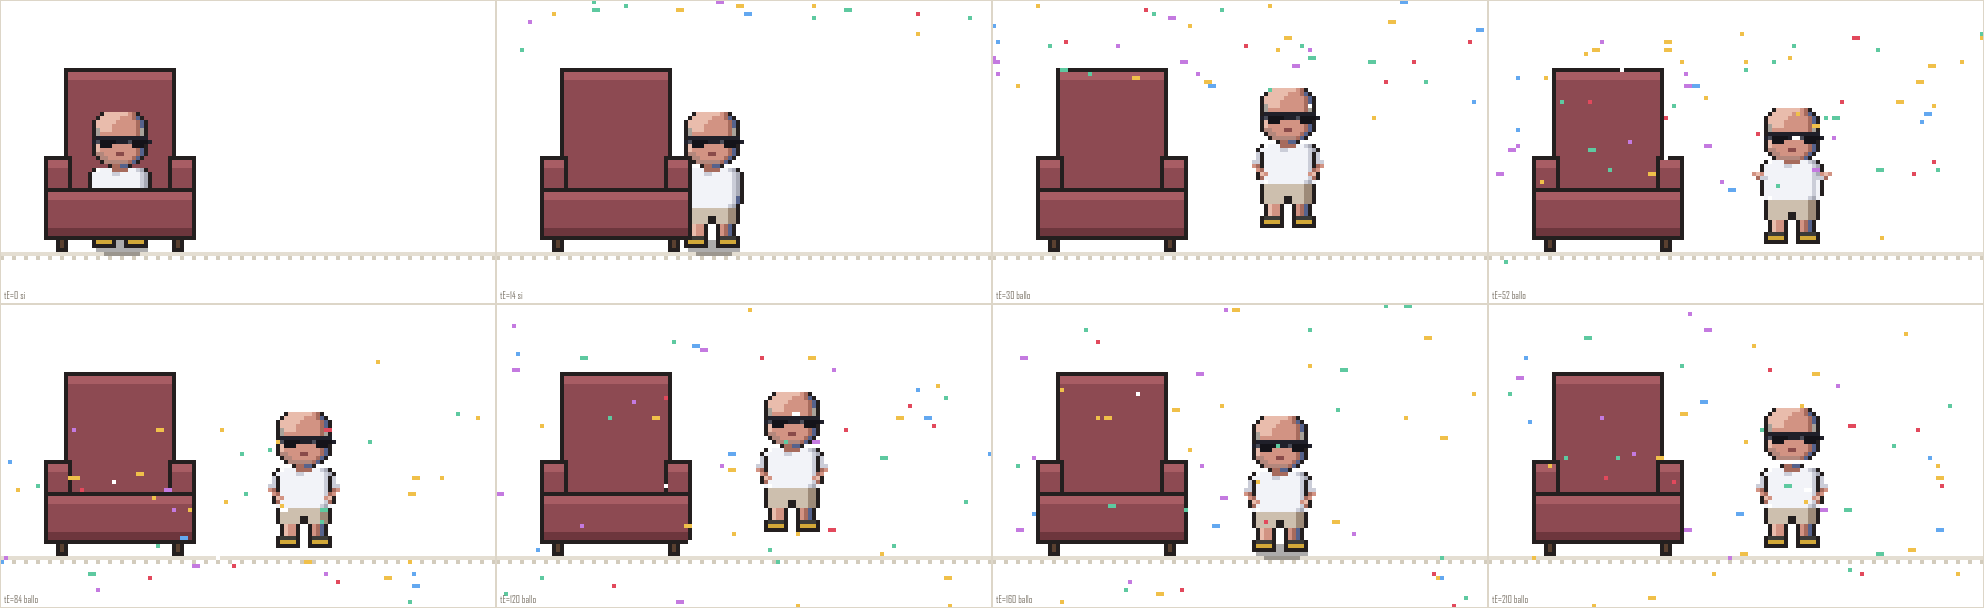
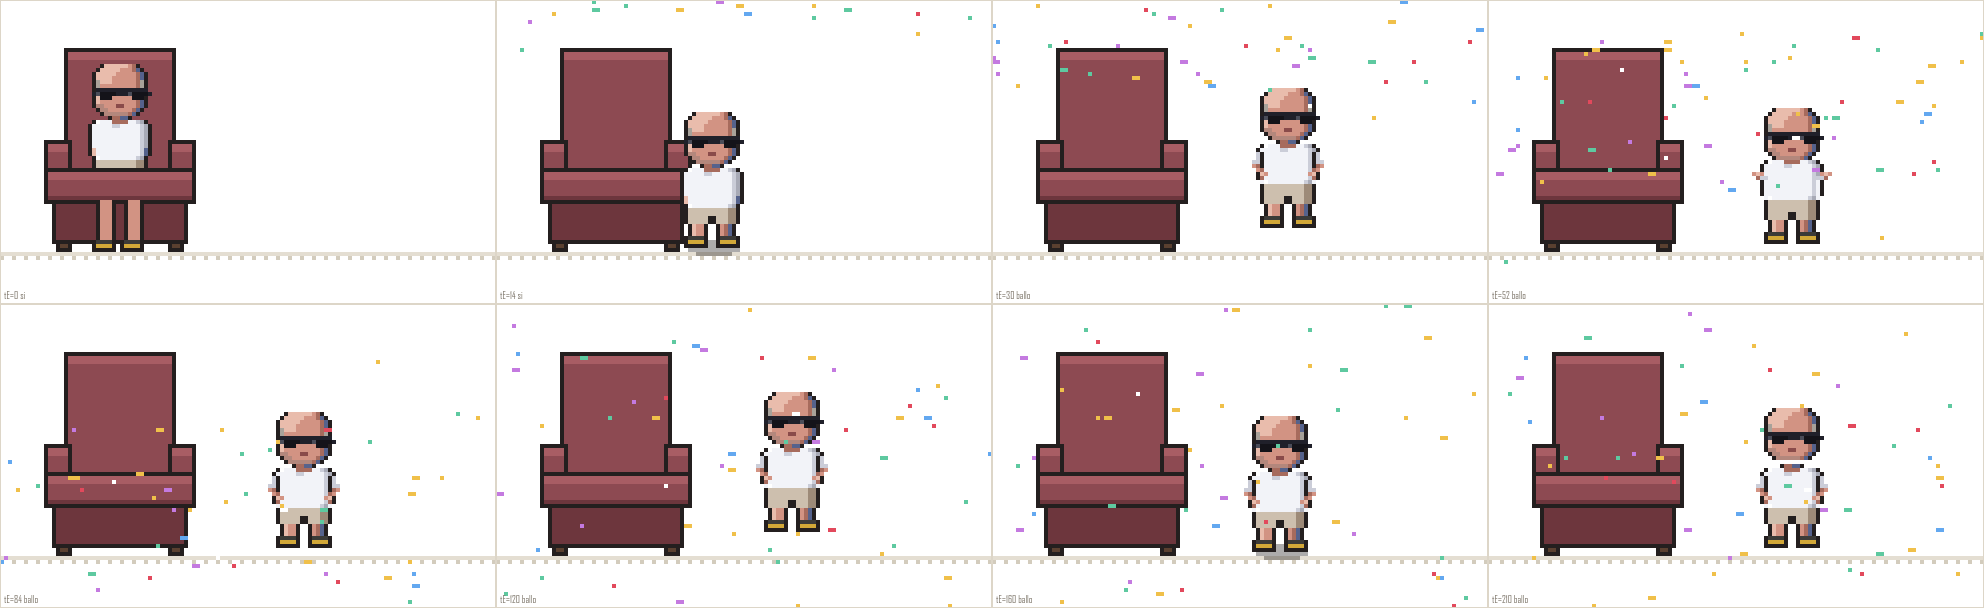
Poltrona: seduto spariva mezzo corpo
Il difetto non era dove sembrava. La conta dice che il mobile copriva solo
il venti per cento della figura, e sempre e solo gambe e scarpe: testa,
maglietta e braccia erano intatti. Geometricamente giusto, eppure sbagliato
a vedersi.

Il motivo e' che di fronte una persona seduta si riconosce dalle ginocchia.
Tagliata alla pancia e basta, non sembra seduta: sembra sprofondata nel
mobile, o mezza. Mancavano le gambe, non ce n'erano di troppo.

Il cuscino era spesso dodici pixel e il piano stava a tre dal pavimento:
sotto non restava spazio per farle scendere. Ora il piano e' piu' alto e il
cuscino piu' sottile, e sotto ci sono dodici pixel liberi. Gli stinchi
scendono fino a terra alle stesse colonne che le gambe hanno nello sprite
in piedi, o non sembrano le sue.

Le quattro gambe di legno alte dodici pixel facevano sembrare la poltrona
su trampoli: a un mobile imbottito serve peso in basso. Ora ha una base
piena, e le gambe di chi ci siede passano DAVANTI a quella base, come
succede davvero.

Terzo caso, lo stesso errore al contrario: camminando via passava dietro
alla poltrona e il mobile gli tagliava mezzo corpo, lasciando un busto che
scivola. Chi sta in piedi va disegnato davanti al mobile; solo chi ci siede
ci sta dentro. Ora l'ordine dipende da dove si trova.

E nel ramo del si' si alzava gia' in piedi al primo fotogramma, con mezzo
corpo dietro il cuscino: adesso prima si tira su, poi si sposta.
[…]

diff --git a/finale.js b/finale.js
@@ -129,7 +129,20 @@ function statoCaduta(t){
    Vista di fronte. Si disegna in due passate: 'dietro' lo schienale,
    'davanti' seduta e braccioli. Il personaggio va in mezzo alle due.
    -------------------------------------------------------------------------- */
-const POLT = { larg: 38, schienale: 30, seduta: 12 };
+/* Le misure della poltrona, tutte riferite al piano su cui ci si siede.
+   La prima versione aveva il cuscino spesso 12 e il piano a tre pixel dal
+   pavimento: fra il cuscino e terra non restava spazio per le gambe, e
+   seduto veniva tagliato alla pancia. Di fronte, una persona seduta si
+   riconosce dalle ginocchia: senza, sembra sprofondata nel mobile.
+   Ora il piano e' piu' alto e il cuscino piu' sottile, e sotto ci sono
+   dodici pixel liberi in cui far scendere gli stinchi. */
+const POLT = {
+  larg: 38,
+  ySeduta: 42,        // il piano su cui appoggia
+  cuscino: 8,         // spessore del cuscino
+  schienale: 30,      // quanto sale lo schienale sopra il piano
+  bracciolo: 7        // quanto salgono i braccioli sopra il piano
+};
 
 function rett(P, x0, y0, x1, y1, colore){
   for (let y = y0; y <= y1; y++)
@@ -141,43 +154,79 @@ function cornice(P, x0, y0, x1, y1, colore){
   for (let y = y0; y <= y1; y++){ P.punto(x0, y, colore); P.punto(x1, y, colore); }
 }
 
+/* Gli stinchi e le scarpe di chi e' seduto.
+   Le cosce non si disegnano: di fronte sono scorciate a niente e il cuscino
+   le copre comunque. Bastano le due gambe che scendono dal filo del cuscino
+   fino a terra, alle stesse colonne che hanno nello sprite in piedi, o le
+   gambe non sembrano le sue. */
+function gambeSedute(P, cx, daY, aY){
+  const sx = Math.round(cx - A.LARG_PERS / 2);
+  for (const dx of [5, 12]){             // le due gambe nello sprite del corpo
+    for (let y = daY; y <= aY - 3; y++){
+      P.punto(sx + dx, y, A.C.o);
+      for (let i = 1; i <= 3; i++) P.punto(sx + dx + i, y, A.C.s);
+      P.punto(sx + dx + 4, y, A.C.o);
+    }
+    // calzino, scarpa e suola: le stesse tre righe dello sprite in piedi
+    rett(P, sx + dx - 1, aY - 2, sx + dx + 4, aY - 2, A.C.f);
+    rett(P, sx + dx - 1, aY - 1, sx + dx + 4, aY - 1, A.C.y);
+    rett(P, sx + dx - 1, aY,     sx + dx + 4, aY,     A.C.o);
+    P.punto(sx + dx - 1, aY - 2, A.C.o); P.punto(sx + dx + 4, aY - 2, A.C.o);
+    P.punto(sx + dx - 1, aY - 1, A.C.o); P.punto(sx + dx + 4, aY - 1, A.C.o);
+  }
+}
+
 function poltrona(P, cx, parte, entrata){
   // entrata da 0 a 1: arriva da fuori, a sinistra
   const dx = Math.round((1 - (entrata === undefined ? 1 : entrata)) * -60);
   const x0 = Math.round(cx - POLT.larg / 2) + dx;
   const x1 = x0 + POLT.larg - 1;
-  const ySeduta = SUOLO - POLT.seduta - 3;
-  const ySchiena = ySeduta - POLT.schienale;
+  const yS = POLT.ySeduta;
+  const yGiu = yS + POLT.cuscino;               // il filo sotto il cuscino
+  const ySchiena = yS - POLT.schienale;
 
   if (parte === 'dietro'){
     // schienale, con la bordatura chiara in alto: gli da' volume
-    rett(P, x0 + 5, ySchiena, x1 - 5, ySeduta + 2, COL.stoffa);
+    rett(P, x0 + 5, ySchiena, x1 - 5, yS + 2, COL.stoffa);
     rett(P, x0 + 5, ySchiena, x1 - 5, ySchiena + 2, COL.stoffaSu);
-    cornice(P, x0 + 5, ySchiena, x1 - 5, ySeduta + 2, COL.filo);
+    cornice(P, x0 + 5, ySchiena, x1 - 5, yS + 2, COL.filo);
     return;
   }
 
-  // braccioli: sono loro a coprirgli le gambe
-  for (const bx of [x0, x1 - 6]){
-    rett(P, bx, ySeduta - 8, bx + 6, SUOLO - 4, COL.stoffa);
-    rett(P, bx, ySeduta - 8, bx + 6, ySeduta - 6, COL.stoffaSu);
-    cornice(P, bx, ySeduta - 8, bx + 6, SUOLO - 4, COL.filo);
+  // le gambe di chi e' seduto: vanno DOPO il mobile, perche' gli stinchi
+  // di chi siede stanno davanti alla base della poltrona
+  if (parte === 'gambe'){
+    gambeSedute(P, cx + dx, yGiu, SUOLO);
+    return;
   }
-  // seduta
-  rett(P, x0, ySeduta, x1, ySeduta + POLT.seduta, COL.stoffa);
-  rett(P, x0, ySeduta, x1, ySeduta + 2, COL.stoffaSu);
-  rett(P, x0, ySeduta + POLT.seduta - 2, x1, ySeduta + POLT.seduta, COL.stoffaGiu);
-  cornice(P, x0, ySeduta, x1, ySeduta + POLT.seduta, COL.filo);
-  // due piedini di legno
-  for (const px of [x0 + 3, x1 - 5]){
-    rett(P, px, SUOLO - 3, px + 2, SUOLO, COL.legno);
-    cornice(P, px, SUOLO - 3, px + 2, SUOLO, COL.filo);
+
+  // braccioli: appoggiati sul piano, non alti fino alle spalle
+  for (const bx of [x0, x1 - 6]){
+    rett(P, bx, yS - POLT.bracciolo, bx + 6, yGiu, COL.stoffa);
+    rett(P, bx, yS - POLT.bracciolo, bx + 6, yS - POLT.bracciolo + 2, COL.stoffaSu);
+    cornice(P, bx, yS - POLT.bracciolo, bx + 6, yGiu, COL.filo);
+  }
+  // il cuscino
+  rett(P, x0, yS, x1, yGiu, COL.stoffa);
+  rett(P, x0, yS, x1, yS + 2, COL.stoffaSu);
+  rett(P, x0, yGiu - 1, x1, yGiu, COL.stoffaGiu);
+  cornice(P, x0, yS, x1, yGiu, COL.filo);
+  /* La base, piena fino a terra. Prima c'erano quattro gambe di legno alte
+     dodici pixel e la poltrona sembrava su trampoli: a un mobile imbottito
+     serve peso in basso. Le gambe di chi ci siede passano DAVANTI a questa
+     base, come succede davvero. */
+  rett(P, x0 + 2, yGiu, x1 - 2, SUOLO - 2, COL.stoffaGiu);
+  cornice(P, x0 + 2, yGiu, x1 - 2, SUOLO - 2, COL.filo);
+  // due piedini appena accennati
+  for (const px of [x0 + 3, x1 - 6]){
+    rett(P, px, SUOLO - 2, px + 3, SUOLO, COL.legno);
+    cornice(P, px, SUOLO - 2, px + 3, SUOLO, COL.filo);
   }
 }
 
-// dove appoggiare il personaggio perche' sembri seduto: i piedi finti
-// stanno sotto la seduta, che li nasconde
-const Y_SEDUTO = SUOLO - POLT.seduta - 3 + 8;
+/* Dove mettere i piedi "finti" del corpo in piedi perche' il taglio del
+   cuscino cada sui fianchi: otto pixel sotto il piano della seduta. */
+const Y_SEDUTO = POLT.ySeduta + 8;
 
 /* --------------------------------------------------------------------------
    LA PORTA — compare solo se rifiuta tre volte
@@ -374,7 +423,10 @@ function statoScelta(t, esito, tE, rifiuti){
       s.x += b.inclina; s.y = SUOLO + b.dy; s.azione = b.azione;
       s.fase = 'ballo';
     } else {
-      s.y = SUOLO; s.azione = 'cammina';
+      /* Prima si tira su, poi si sposta: partendo gia' in piedi restava un
+         fotogramma con mezzo corpo dietro il cuscino, come tagliato. */
+      s.y = Y_SEDUTO + (SUOLO - Y_SEDUTO) * Math.min(1, alzata * 2.4);
+      s.azione = 'cammina';
     }
   }
 
@@ -408,6 +460,11 @@ function statoScelta(t, esito, tE, rifiuti){
     }
   }
 
+  /* Le gambe da seduto si disegnano quando, e solo quando, e' appoggiato al
+     cuscino. Legarle all'altezza invece che alla fase evita di doverci
+     pensare in ogni ramo: se e' li', ci sono. */
+  s.gambe = s.mostraLui && Math.round(s.y) === Y_SEDUTO;
+
   return s;
 }
 
@@ -433,7 +490,8 @@ const API = {
   LARG, ALT, SUOLO, X_CADUTA, X_POLTRONA, Y_SEDUTO, X_BALLO, COL, POLT,
   FASI, DURATA_CADUTA, statoCaduta,
   SCE, FA, FINE_PORTA, RABBIA_SEDUTO, statoScelta,
-  poltrona, porta, coriandoli, passoDiBallo, lacrime, cuore, suolo, velo,
+  poltrona, gambeSedute, porta, coriandoli, passoDiBallo, lacrime, cuore,
+  suolo, velo,
   rett, cornice, TINTE_FESTA
 };
 if (typeof module !== 'undefined' && module.exports) module.exports = API;

diff --git a/strumenti/seduto.js b/strumenti/seduto.js
@@ -1,0 +1,76 @@
+/* Che cosa della persona resta visibile quando si siede.
+
+   Serve affiancare la figura intera e quella dentro la poltrona: e' l'unico
+   modo di accorgersi di quanto sparisce. Da solo, un personaggio tagliato
+   alla vita sembra sempre plausibile.
+
+     node strumenti/seduto.js
+*/
+const fs = require("fs");
+const { createCanvas } = require("@napi-rs/canvas");
+const A = require("../arte.js");
+const F = require("../finale.js");
+
+const SCALA = 10, L = 60, AL = 76;
+const CASI = [
+  { et: "figura intera",      poltrona: false, az: "fermo",  ra: 0.15 },
+  { et: "seduto",             poltrona: true,  az: "fermo",  ra: 0.15 },
+  { et: "seduto, arrabbiato", poltrona: true,  az: "sbuffa", ra: 1 }
+];
+
+const c = createCanvas(L * CASI.length * SCALA, AL * SCALA);
+const ctx = c.getContext("2d");
+ctx.fillStyle = "#fff";
+ctx.fillRect(0, 0, c.width, c.height);
+
+CASI.forEach((k, n) => {
+  const gx = n * L;
+  const P = { punto(x, y, col){
+    if (!col) return;
+    x = Math.round(x); y = Math.round(y);
+    if (x < 0 || y < 0 || x >= L || y >= AL) return;
+    ctx.fillStyle = col;
+    ctx.fillRect((gx + x) * SCALA, y * SCALA, SCALA, SCALA);
+  }};
+
+  F.suolo(P, 1);
+  const y = k.poltrona ? F.Y_SEDUTO : F.SUOLO;
+  F.poltrona(P, F.X_POLTRONA, "dietro", 1);
+  A.attore(P, F.X_POLTRONA, y, { azione: k.az, t: 40, rabbia: k.ra, ombra: false });
+  if (k.poltrona){
+    F.poltrona(P, F.X_POLTRONA, "davanti", 1);
+    F.poltrona(P, F.X_POLTRONA, "gambe", 1);
+  }
+
+  ctx.strokeStyle = "#ddd";
+  ctx.strokeRect(gx * SCALA + .5, .5, L * SCALA - 1, AL * SCALA - 1);
+  ctx.fillStyle = "#555";
+  ctx.font = `${SCALA * 1.6}px sans-serif`;
+  ctx.fillText(k.et, gx * SCALA + 4, AL * SCALA - 6);
+});
+
+fs.writeFileSync("anteprime/seduto.png", c.toBuffer("image/png"));
+console.log("seduto -> anteprime/seduto.png");
+
+/* La conta esatta: quali parti del corpo copre il mobile. */
+const cy = F.Y_SEDUTO - A.ALT_PERS;
+const PARTI = [["testa",0,12],["collo",13,13],["maglietta e braccia",14,23],
+               ["pantaloni",24,27],["gambe",28,30],["scarpe",31,33]];
+
+const persona = new Map();
+A.attore({ punto(x,y,col){ if(col) persona.set(Math.round(x)+","+Math.round(y), 1); } },
+         F.X_POLTRONA, F.Y_SEDUTO, { azione:"fermo", t:40, rabbia:0.15, ombra:false });
+const mobile = new Set();
+F.poltrona({ punto(x,y,col){ if(col) mobile.add(Math.round(x)+","+Math.round(y)); } },
+           F.X_POLTRONA, "davanti", 1);
+
+console.log("\nparte                 coperta dal mobile");
+for (const [nome, a, b] of PARTI){
+  let tot = 0, cop = 0;
+  for (const k of persona.keys()){
+    const r = +k.split(",")[1] - cy;
+    if (r < a || r > b) continue;
+    tot++; if (mobile.has(k)) cop++;
+  }
+  if (tot) console.log("  " + nome.padEnd(22) + String(Math.round(cop / tot * 100)).padStart(3) + "%");
+}

diff --git a/strumenti/finale.js b/strumenti/finale.js
@@ -88,6 +88,7 @@ if (modo === "poltrona"){
       t: 40, rabbia: k.rabbia, ombra: !k.seduto
     });
     F.poltrona(P, F.X_POLTRONA, "davanti", k.entrata);
+    if (k.seduto) F.poltrona(P, F.X_POLTRONA, "gambe", k.entrata);
     riquadro(ctx, gx, gy, k.et, k.bianco > 0.5);
   });
   fs.writeFileSync("anteprime/scelta.png", c.toBuffer("image/png"));
@@ -145,6 +146,7 @@ if (modo === "si" || modo === "no"){
       F.suolo(P, 1);
       F.poltrona(P, F.X_POLTRONA, "dietro", 1);
       if (s.porta) F.porta(P, F.LARG - 16, F.SUOLO, s.porta.apre, s.porta.comparsa);
+      if (!s.gambe) F.poltrona(P, F.X_POLTRONA, "davanti", 1);
       if (s.mostraLui){
         const r = A.attore(P, s.x, s.y, {
           azione: s.azione, t: tE, rabbia: s.rabbia,
@@ -152,7 +154,10 @@ if (modo === "si" || modo === "no"){
         });
         if (s.piange) F.lacrime(P, r.cx, r.cy, tE);
       }
-      F.poltrona(P, F.X_POLTRONA, "davanti", 1);
+      if (s.gambe){
+        F.poltrona(P, F.X_POLTRONA, "davanti", 1);
+        F.poltrona(P, F.X_POLTRONA, "gambe", 1);
+      }
       if (s.coriandoli) F.coriandoli(P, tE);
     }
     riquadro(ctx, gx, gy, `tE=${tE} ${s.fase}`, s.buio === undefined || s.buio < 0.5);
@@ -195,3 +200,6 @@ if (modo === "addio"){
   fs.writeFileSync("anteprime/addio.png", c.toBuffer("image/png"));
   console.log("addio -> anteprime/addio.png");
 }
+
+
+

diff --git a/index.html b/index.html
@@ -1179,6 +1179,11 @@ function disegnaScelta(){
      buio dell'apertura invece si vede bene che se ne sta andando. */
   if (s.porta) F.porta(P, F.LARG - 16, F.SUOLO, s.porta.apre, s.porta.comparsa);
 
+  /* Chi sta in piedi passa DAVANTI alla poltrona; chi ci siede ci sta
+     dentro. Disegnando sempre il mobile per ultimo, mentre camminava via
+     gli tagliava via mezzo corpo e restava un busto che scivola. */
+  if (!s.gambe) F.poltrona(P, F.X_POLTRONA, 'davanti', s.entrata);
+
   if (s.mostraLui){
     const r = A.attore(P, s.x, s.y, {
       azione: s.azione, t: esito === 'si' ? tEsito : fase, rabbia: s.rabbia,
@@ -1187,7 +1192,11 @@ function disegnaScelta(){
     if (s.piange) F.lacrime(P, r.cx, r.cy, fase);
   }
 
-  F.poltrona(P, F.X_POLTRONA, 'davanti', s.entrata);
+  // da seduto: prima il mobile sopra di lui, poi i suoi stinchi davanti
+  if (s.gambe){
+    F.poltrona(P, F.X_POLTRONA, 'davanti', s.entrata);
+    F.poltrona(P, F.X_POLTRONA, 'gambe', s.entrata);
+  }
   if (s.coriandoli) F.coriandoli(P, tEsito);
 
   // le battute dei rifiuti, che non restano appese per sempre
